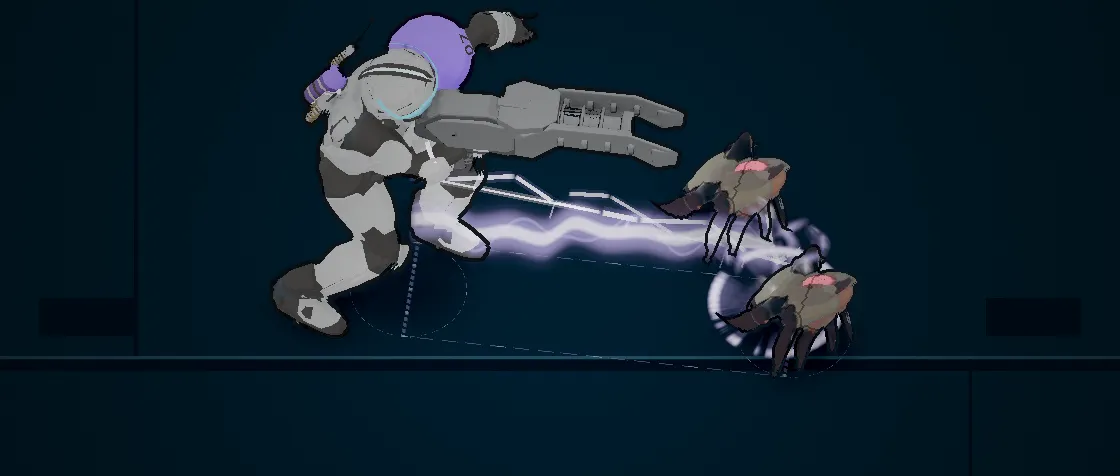
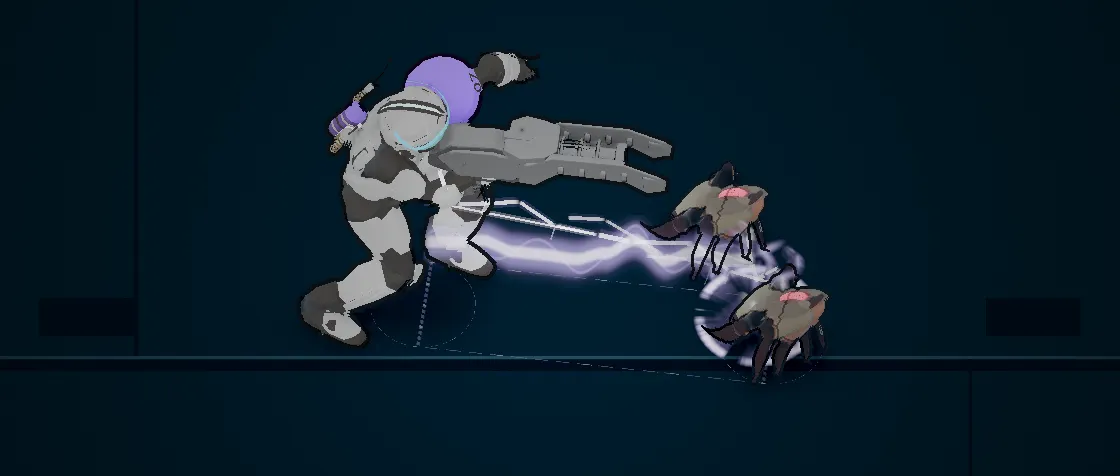
Verify ART21 card art and refine workshop framing

Changed region(s): [[0.2188, 0.0294, 0.7812, 0.7941]]

diff --git a/docs/nextgen/ART19-REPORT.md b/docs/nextgen/ART19-REPORT.md
@@ -31,3 +31,79 @@ Baseline `064f0acd`. The desktop baseline has 15 verified screens under `art21-b
 | Supply stop | `props14/{health,armor,ammo,medkit,grenade,reroll,upgrade,resuscitator}.png` | 300 px square prop cutouts sit over a separate CSS backdrop. Several small, similarly shaped supplies are difficult to identify at gallery scale. The eight old `service-*.webp` shots were dormant. |
 
 The route WebPs were rendered in-engine. Their softness came from the original capture, composition and display crop.
+
+### Rendering and payload
+
+The renders use the creature, marine, prop and room assets at `064f0acd`. The studio uses the production toon materials and full ink outlines at native pixel size, with adaptive resolution and lens blur disabled. Route art is 1120×476. Supply art is 560×224. Story cards select a first-dispatch subject from the native encounter plan when a run changes the opening. Older branches show their actual supply or medical reward, and the legacy reactor-vault route has its own Queen still.
+
+Re-render the route and supply catalog with the current shipped assets.
+
+```sh
+npm run studio -- '--only=^(route-|service-)'
+```
+
+The 55 WebPs total 706,328 bytes. The largest increase among the previously displayed route WebPs is 1.32×. Supply WebPs are smaller than their former PNGs. The studio updates the shot descriptions and encoded byte counts in `public/assets/ui/studio/manifest.json`.
+
+| File | Bytes |
+| --- | ---: |
+| `route-armor.webp` | 14,360 |
+| `route-armory.webp` | 13,250 |
+| `route-awakening-bay.webp` | 10,840 |
+| `route-breached-loading-bay.webp` | 15,238 |
+| `route-brood.webp` | 27,192 |
+| `route-cache.webp` | 10,170 |
+| `route-capacitor.webp` | 9,196 |
+| `route-communal-atrium.webp` | 10,242 |
+| `route-containment-annulus.webp` | 9,638 |
+| `route-coolant-plant.webp` | 14,442 |
+| `route-crew-checkpoint.webp` | 14,234 |
+| `route-diagnostic-gallery.webp` | 13,106 |
+| `route-freight-hold.webp` | 11,132 |
+| `route-infested-workshop.webp` | 8,502 |
+| `route-legacy-queen.webp` | 10,630 |
+| `route-locker.webp` | 13,176 |
+| `route-manual-control-chamber.webp` | 12,192 |
+| `route-medicine.webp` | 8,930 |
+| `route-meltdown-capacitor.webp` | 9,156 |
+| `route-overload-floor.webp` | 9,174 |
+| `route-passenger-vault.webp` | 11,106 |
+| `route-plate-breaker.webp` | 19,996 |
+| `route-protected-passage.webp` | 10,028 |
+| `route-relay-racks.webp` | 13,722 |
+| `route-residential-gallery.webp` | 14,906 |
+| `route-safety-interlock-station.webp` | 8,966 |
+| `route-service-shaft-landing.webp` | 15,704 |
+| `route-shielding-gate.webp` | 11,788 |
+| `route-swarm-junction.webp` | 14,546 |
+| `route-threat-brute.webp` | 10,032 |
+| `route-threat-carrier.webp` | 10,076 |
+| `route-threat-crawler.webp` | 8,654 |
+| `route-threat-matron.webp` | 10,480 |
+| `route-threat-spitter.webp` | 11,374 |
+| `route-threat-stalker.webp` | 12,854 |
+| `route-threat-warden.webp` | 11,488 |
+| `route-transmission-chamber.webp` | 11,834 |
+| `route-upgrade.webp` | 9,394 |
+| `route-warden-cache.webp` | 18,030 |
+| `route-workshop-ember-relay.webp` | 18,948 |
+| `route-workshop-fault-line.webp` | 26,382 |
+| `route-workshop-ice-road.webp` | 27,838 |
+| `route-workshop-live-wire.webp` | 18,780 |
+| `route-workshop-meltdown-core.webp` | 23,560 |
+| `route-workshop-pilgrim-pylon.webp` | 23,458 |
+| `route-workshop-shard-harvest.webp` | 20,404 |
+| `route-workshop-siege-plow.webp` | 19,216 |
+| `service-ammo.webp` | 6,262 |
+| `service-armor.webp` | 6,742 |
+| `service-grenade.webp` | 6,722 |
+| `service-heal.webp` | 4,694 |
+| `service-medkit.webp` | 5,792 |
+| `service-reroll.webp` | 5,184 |
+| `service-revive.webp` | 7,724 |
+| `service-upgrade.webp` | 4,844 |
+
+### Desktop review
+
+The 23 final views are collected under `artifacts/nextgen/art21-after/review-native/` at 1920×1080 and `review-480/` at 480×270. The capture runner stalled between screens in the first session. Fresh late-route and workshop batches completed the gallery, and a separate junction receipt records the final Ice Road framing.
+
+The native review caught two overlapping supply arrangements and two workshop poses that reached the frame edge. The final images separate the supplies and keep the Ice Road and Live Wire marines in frame. At 480×270 the requisition's standard approach reads as an enemy encounter, and the guardian and supply silhouettes are distinguishable before reading the titles.
